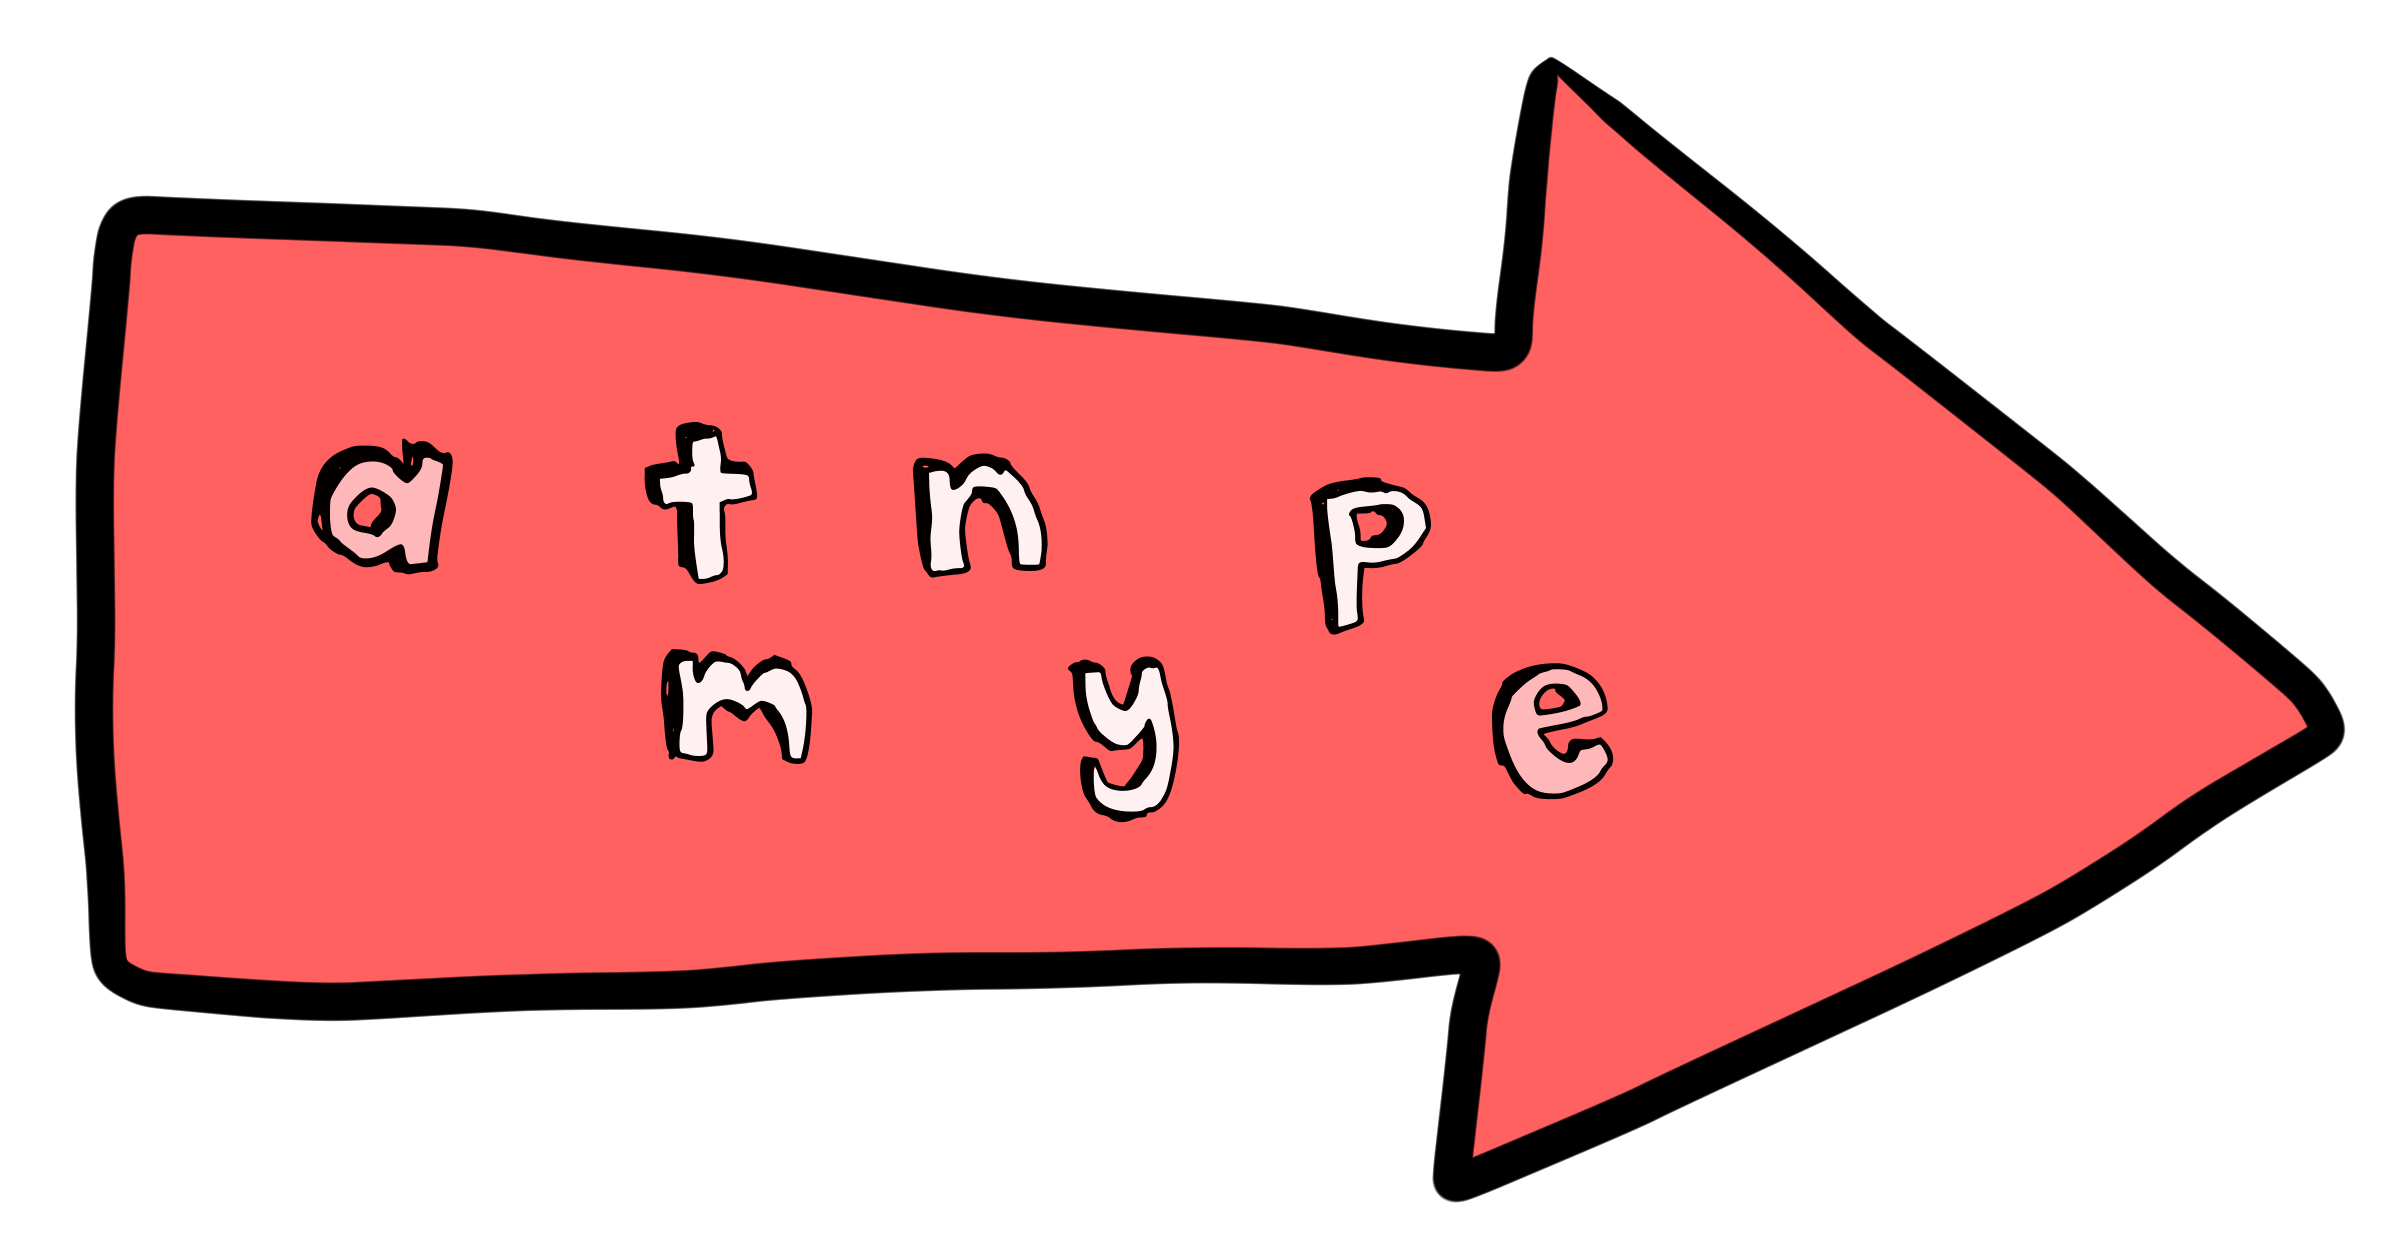
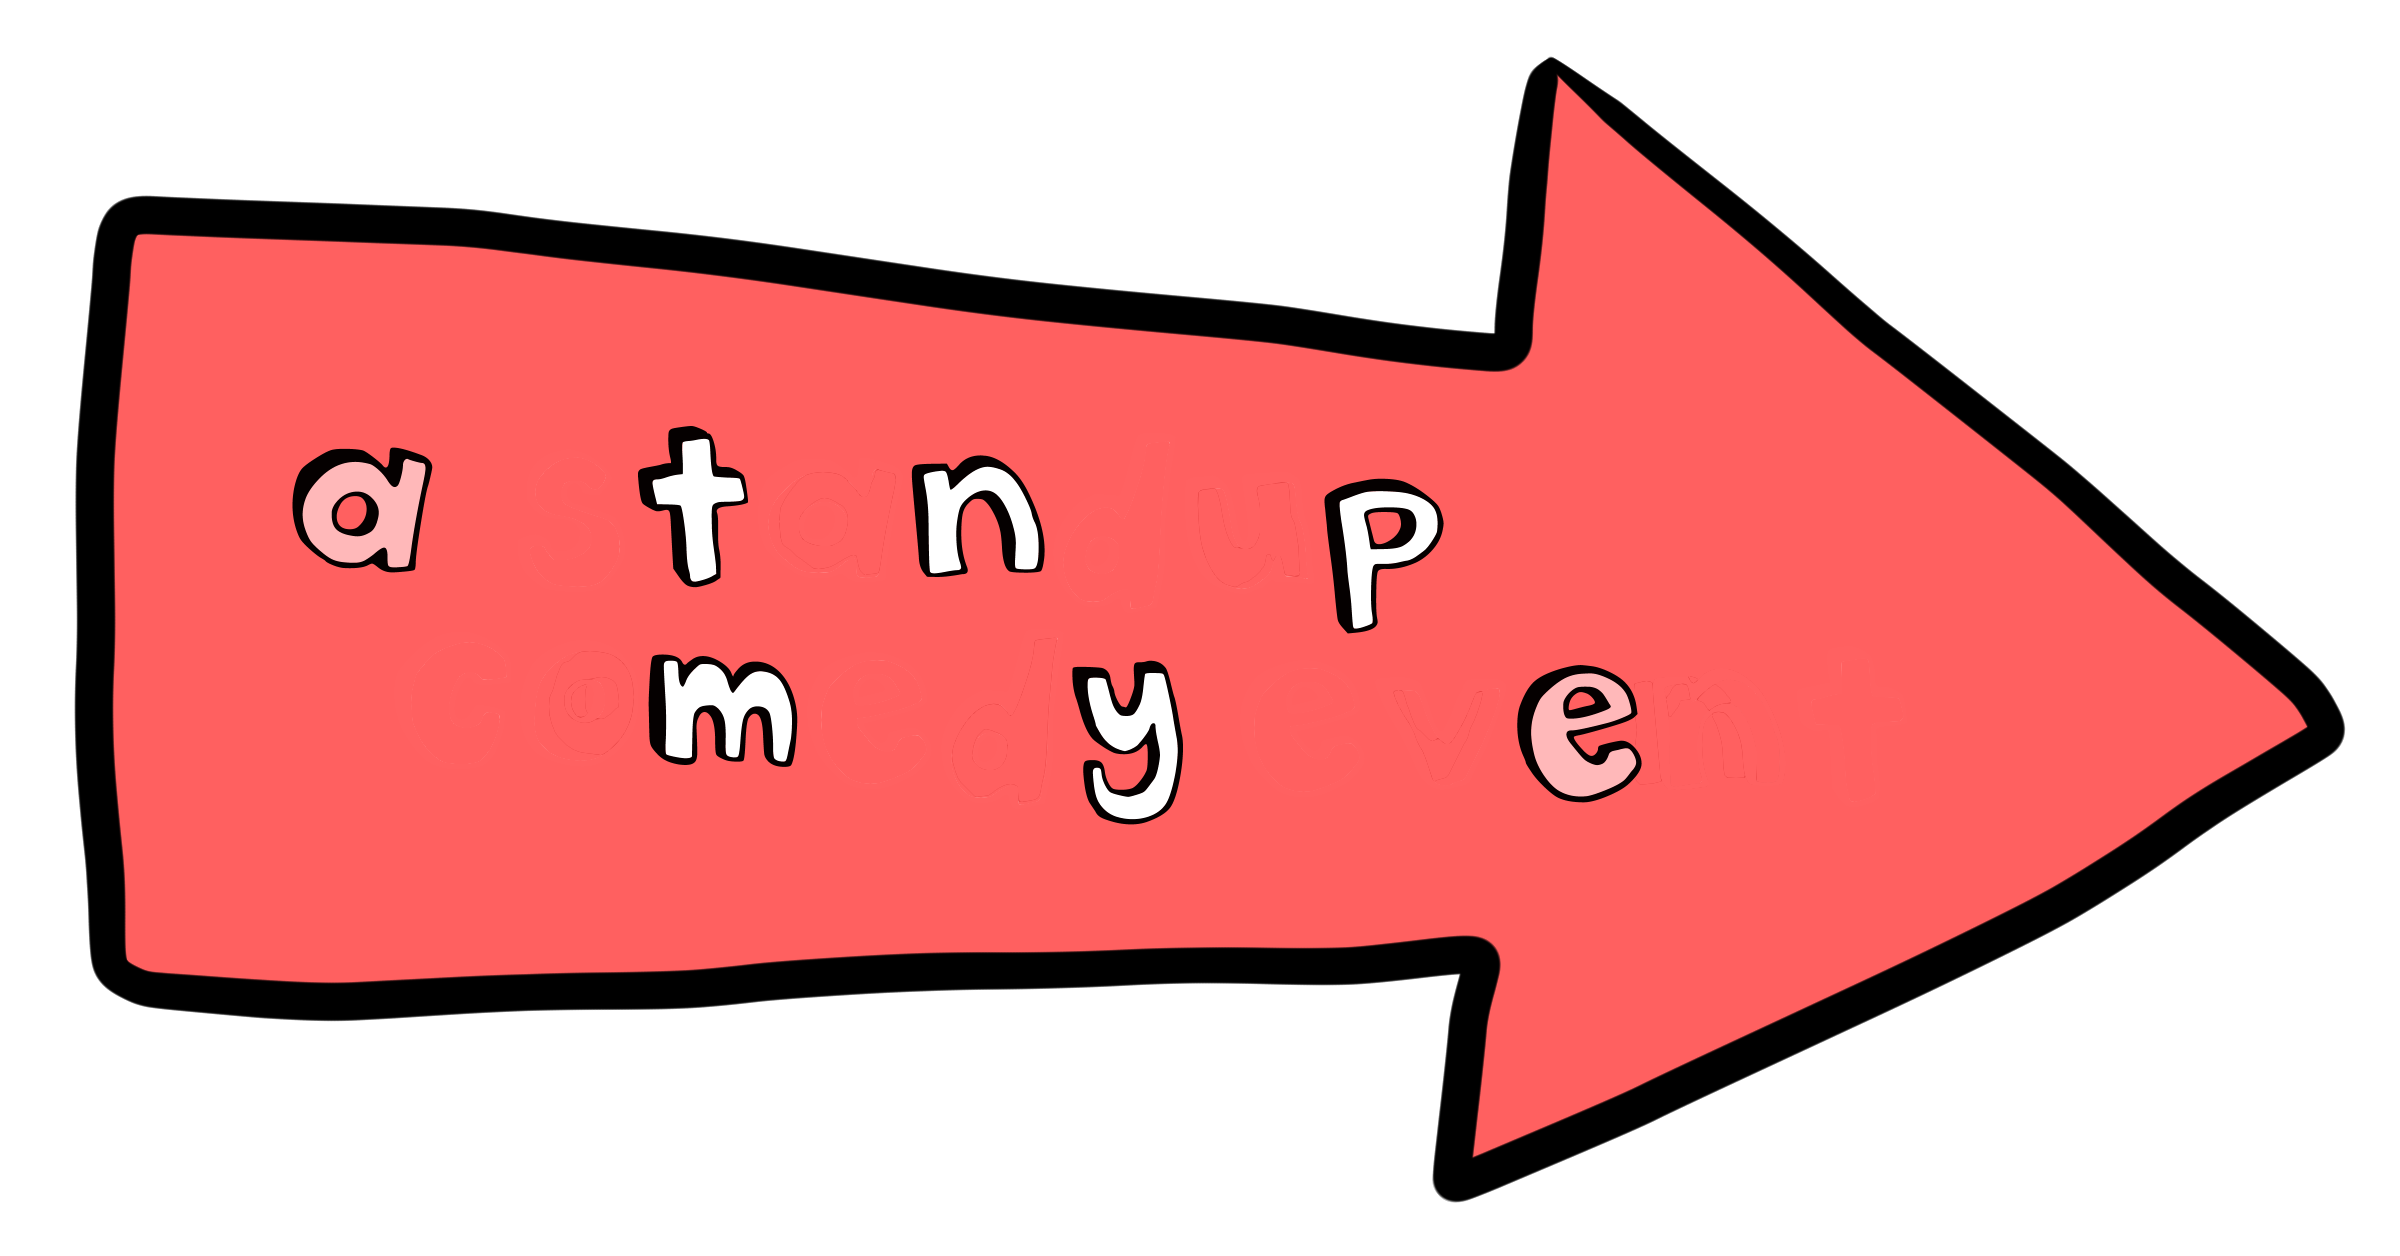
update arrow fonts

diff --git a/_sandbox/parallax-arrow/index-gsap.html b/_sandbox/parallax-arrow/index-gsap.html
@@ -5,20 +5,20 @@
     <meta name="viewport" content="width=device-width, initial-scale=1.0">
     <title>Parallax Scrolling Effect with GSAP</title>
     <style>
-        body,
-        html {
+        body, html {
             margin: 0;
             padding: 0;
             overflow-x: hidden;
+            min-height: 300vh;
             font-family: Arial, sans-serif;
         }
 
         .parallax-container {
             position: relative;
-            width: 80%;
-            margin:0 auto;
+            width: 100%;
             height: 100vh;
             overflow: hidden;
+            perspective: 2px;
             display: flex;
             justify-content: center;
             align-items: center;
@@ -26,101 +26,131 @@
 
         .parallax-layer {
             position: absolute;
+            top: 50%;
+            left: 50%;
             width: 60%;
             height: auto;
         }
 
         .layer0 {
+            transform: translate(-50%, -80%);
             z-index: 1;
         }
 
         .layer1 {
+            transform: translate(-50%, -70%);
             z-index: 2;
         }
 
         .layer2 {
+            transform: translate(-50%, -60%);
             z-index: 3;
         }
 
         .layer3, .text-layer {
-            z-index: 4;
+            transform: translate(-50%, -60%);
             width: 60%;
             height: auto;
+            z-index: 4;
         }
 
         .buffer-div {
             background: #666;
-            height: 200px;
+            height: 400px;
         }
     </style>
 </head>
 <body>
-    <div class="buffer-div"></div>
-    <div class="parallax-container">
-        <img src="assets/images/atc-arrow-layers/0-arrow - simple populate - bottom layer.png" class="parallax-layer layer0">
-        <img src="assets/images/atc-arrow-layers/1-arrow - simple populate - middle layer.png" class="parallax-layer layer1">
-        <img src="assets/images/atc-arrow-layers/2-arrow - simple populate - top layer - arrow only.png" class="parallax-layer layer2">
-        <img src="assets/images/atc-arrow-layers/3-arrow - filled text only.png" class="parallax-layer text-layer layer3">
-    </div>
-    <div class="buffer-div"></div>
+<div class="buffer-div"></div>
+<div class="parallax-container">
+    <img src="assets/images/atc-arrow-layers/0-arrow - simple populate - bottom layer.png"
+         class="parallax-layer layer0">
+    <img src="assets/images/atc-arrow-layers/1-arrow - simple populate - middle layer.png"
+         class="parallax-layer layer1">
+    <img src="assets/images/atc-arrow-layers/2-arrow - simple populate - top layer - arrow only.png"
+         class="parallax-layer layer2">
+    <img src="assets/images/atc-arrow-layers/3-arrow - filled text only.png" class="parallax-layer text-layer layer3">
+</div>
+<div class="buffer-div"></div>
 
-    <script src="https://cdnjs.cloudflare.com/ajax/libs/gsap/3.12.5/gsap.min.js"></script>
-    <script src="https://cdnjs.cloudflare.com/ajax/libs/gsap/3.12.5/ScrollTrigger.min.js"></script>
-    <script>
-        gsap.registerPlugin(ScrollTrigger);
+<!-- Include GSAP and ScrollTrigger -->
+<script src="https://cdnjs.cloudflare.com/ajax/libs/gsap/3.12.2/gsap.min.js"></script>
+<script src="https://cdnjs.cloudflare.com/ajax/libs/gsap/3.12.2/ScrollTrigger.min.js"></script>
 
-        // Set initial positions
-        gsap.set(".layer0", { xPercent: -50, yPercent: -80 }); // Lowest
-        gsap.set(".layer1", { xPercent: -50, yPercent: -70 });
-        gsap.set(".layer2", { xPercent: -50, yPercent: -60 });
-        gsap.set(".text-layer", { xPercent: -50, yPercent: -40 }); // Highest
+<script>
+    // Register ScrollTrigger with GSAP
+    gsap.registerPlugin(ScrollTrigger);
 
-        // Animate each layer to converge at yPercent: -50
-        gsap.to(".layer0", {
-            yPercent: -50, // Moves upward from -80% to -50%
-            ease: "none",
-            scrollTrigger: {
-                trigger: ".parallax-container",
-                start: "top bottom", // Start when the container enters the viewport
-                end: "+=277", // End after scrolling 277px
-                scrub: true,
-                markers: false
-            }
-        });
+    // Log to confirm GSAP and ScrollTrigger are loaded
+    console.log("GSAP Loaded:", typeof gsap !== "undefined");
+    console.log("ScrollTrigger Loaded:", typeof ScrollTrigger !== "undefined");
 
-        gsap.to(".layer1", {
-            yPercent: -50, // Moves upward from -70% to -50%
-            ease: "none",
-            scrollTrigger: {
-                trigger: ".parallax-container",
-                start: "top bottom",
-                end: "+=277",
-                scrub: true
-            }
-        });
+    // Define the combine point (same as in the original code)
+    const combinePoint = 450;
 
-        gsap.to(".layer2", {
-            yPercent: -50, // Moves upward from -60% to -50%
-            ease: "none",
-            scrollTrigger: {
-                trigger: ".parallax-container",
-                start: "top bottom",
-                end: "+=277",
-                scrub: true
-            }
-        });
+    // Convert percentage-based transforms to pixels for GSAP
+    const viewportHeight = window.innerHeight;
+    const initialY0 = -80 * viewportHeight / 100; // -80% of viewport height
+    const initialY1 = -70 * viewportHeight / 100; // -70% of viewport height
+    const initialY2 = -60 * viewportHeight / 100; // -60% of viewport height
+    const initialYText = -60 * viewportHeight / 100; // -60% of viewport height
 
-        gsap.to(".text-layer", {
-            yPercent: -50, // Moves downward from -40% to -50%
-            y: 20, // Offset to adjust text position
-            ease: "none",
-            scrollTrigger: {
-                trigger: ".parallax-container",
-                start: "top bottom",
-                end: "+=277",
-                scrub: true
-            }
-        });
-    </script>
+    // Animate each layer using GSAP and ScrollTrigger
+    gsap.to(".layer0", {
+        scrollTrigger: {
+            trigger: ".parallax-container",
+            start: "top center", // Start when the top of the container hits the center of the viewport
+            end: `+=${combinePoint}`, // End after scrolling 450px
+            scrub: true, // Smoothly animate as the user scrolls
+            markers: true, // Enable markers for debugging
+            onEnter: () => console.log("Layer0 animation started"),
+            onLeave: () => console.log("Layer0 animation ended")
+        },
+        y: initialY0 - (0.15 * combinePoint), // Move by the same offset as the original code
+        ease: "none"
+    });
+
+    gsap.to(".layer1", {
+        scrollTrigger: {
+            trigger: ".parallax-container",
+            start: "top center",
+            end: `+=${combinePoint}`,
+            scrub: true,
+            markers: true,
+            onEnter: () => console.log("Layer1 animation started"),
+            onLeave: () => console.log("Layer1 animation ended")
+        },
+        y: initialY1 - (0.2 * combinePoint),
+        ease: "none"
+    });
+
+    gsap.to(".layer2", {
+        scrollTrigger: {
+            trigger: ".parallax-container",
+            start: "top center",
+            end: `+=${combinePoint}`,
+            scrub: true,
+            markers: true,
+            onEnter: () => console.log("Layer2 animation started"),
+            onLeave: () => console.log("Layer2 animation ended")
+        },
+        y: initialY2 - (0.25 * combinePoint),
+        ease: "none"
+    });
+
+    gsap.to(".text-layer", {
+        scrollTrigger: {
+            trigger: ".parallax-container",
+            start: "top center",
+            end: `+=${combinePoint}`,
+            scrub: true,
+            markers: true,
+            onEnter: () => console.log("Text-layer animation started"),
+            onLeave: () => console.log("Text-layer animation ended")
+        },
+        y: initialYText - (0.25 * combinePoint),
+        ease: "none"
+    });
+</script>
 </body>
 </html>

diff --git a/_sandbox/parallax-arrow/index-revert.html b/_sandbox/parallax-arrow/index-revert.html
@@ -48,8 +48,8 @@
         }
 
         .layer3, .text-layer {
-            transform: translate(-50%, -40%);
-            z-index: 4;
+            transform: translate(-50%, -60%);
+        //transform: translate(-50%, -40%); z-index: 4;
             width: 60%;
             height: auto;
         }
@@ -84,7 +84,8 @@
                 document.querySelector('.layer0').style.transform = `translate(-50%, calc(-80% - ${scrollTop * 0.15}px))`;
                 document.querySelector('.layer1').style.transform = `translate(-50%, calc(-70% - ${scrollTop * 0.2}px))`;
                 document.querySelector('.layer2').style.transform = `translate(-50%, calc(-60% - ${scrollTop * 0.25}px))`;
-                document.querySelector('.text-layer').style.transform = `translate(-50%, calc(-40% - ${scrollTop * 0.35}px))`;
+                document.querySelector('.text-layer').style.transform = `translate(-50%, calc(-60% - ${scrollTop * 0.25}px))`;
+                // document.querySelector('.text-layer').style.transform = `translate(-50%, calc(-40% - ${scrollTop * 0.35}px))`;
             } else {
 
                 // document.querySelector('.layer0').style.transform = `translate(-50%, -50%)`;
